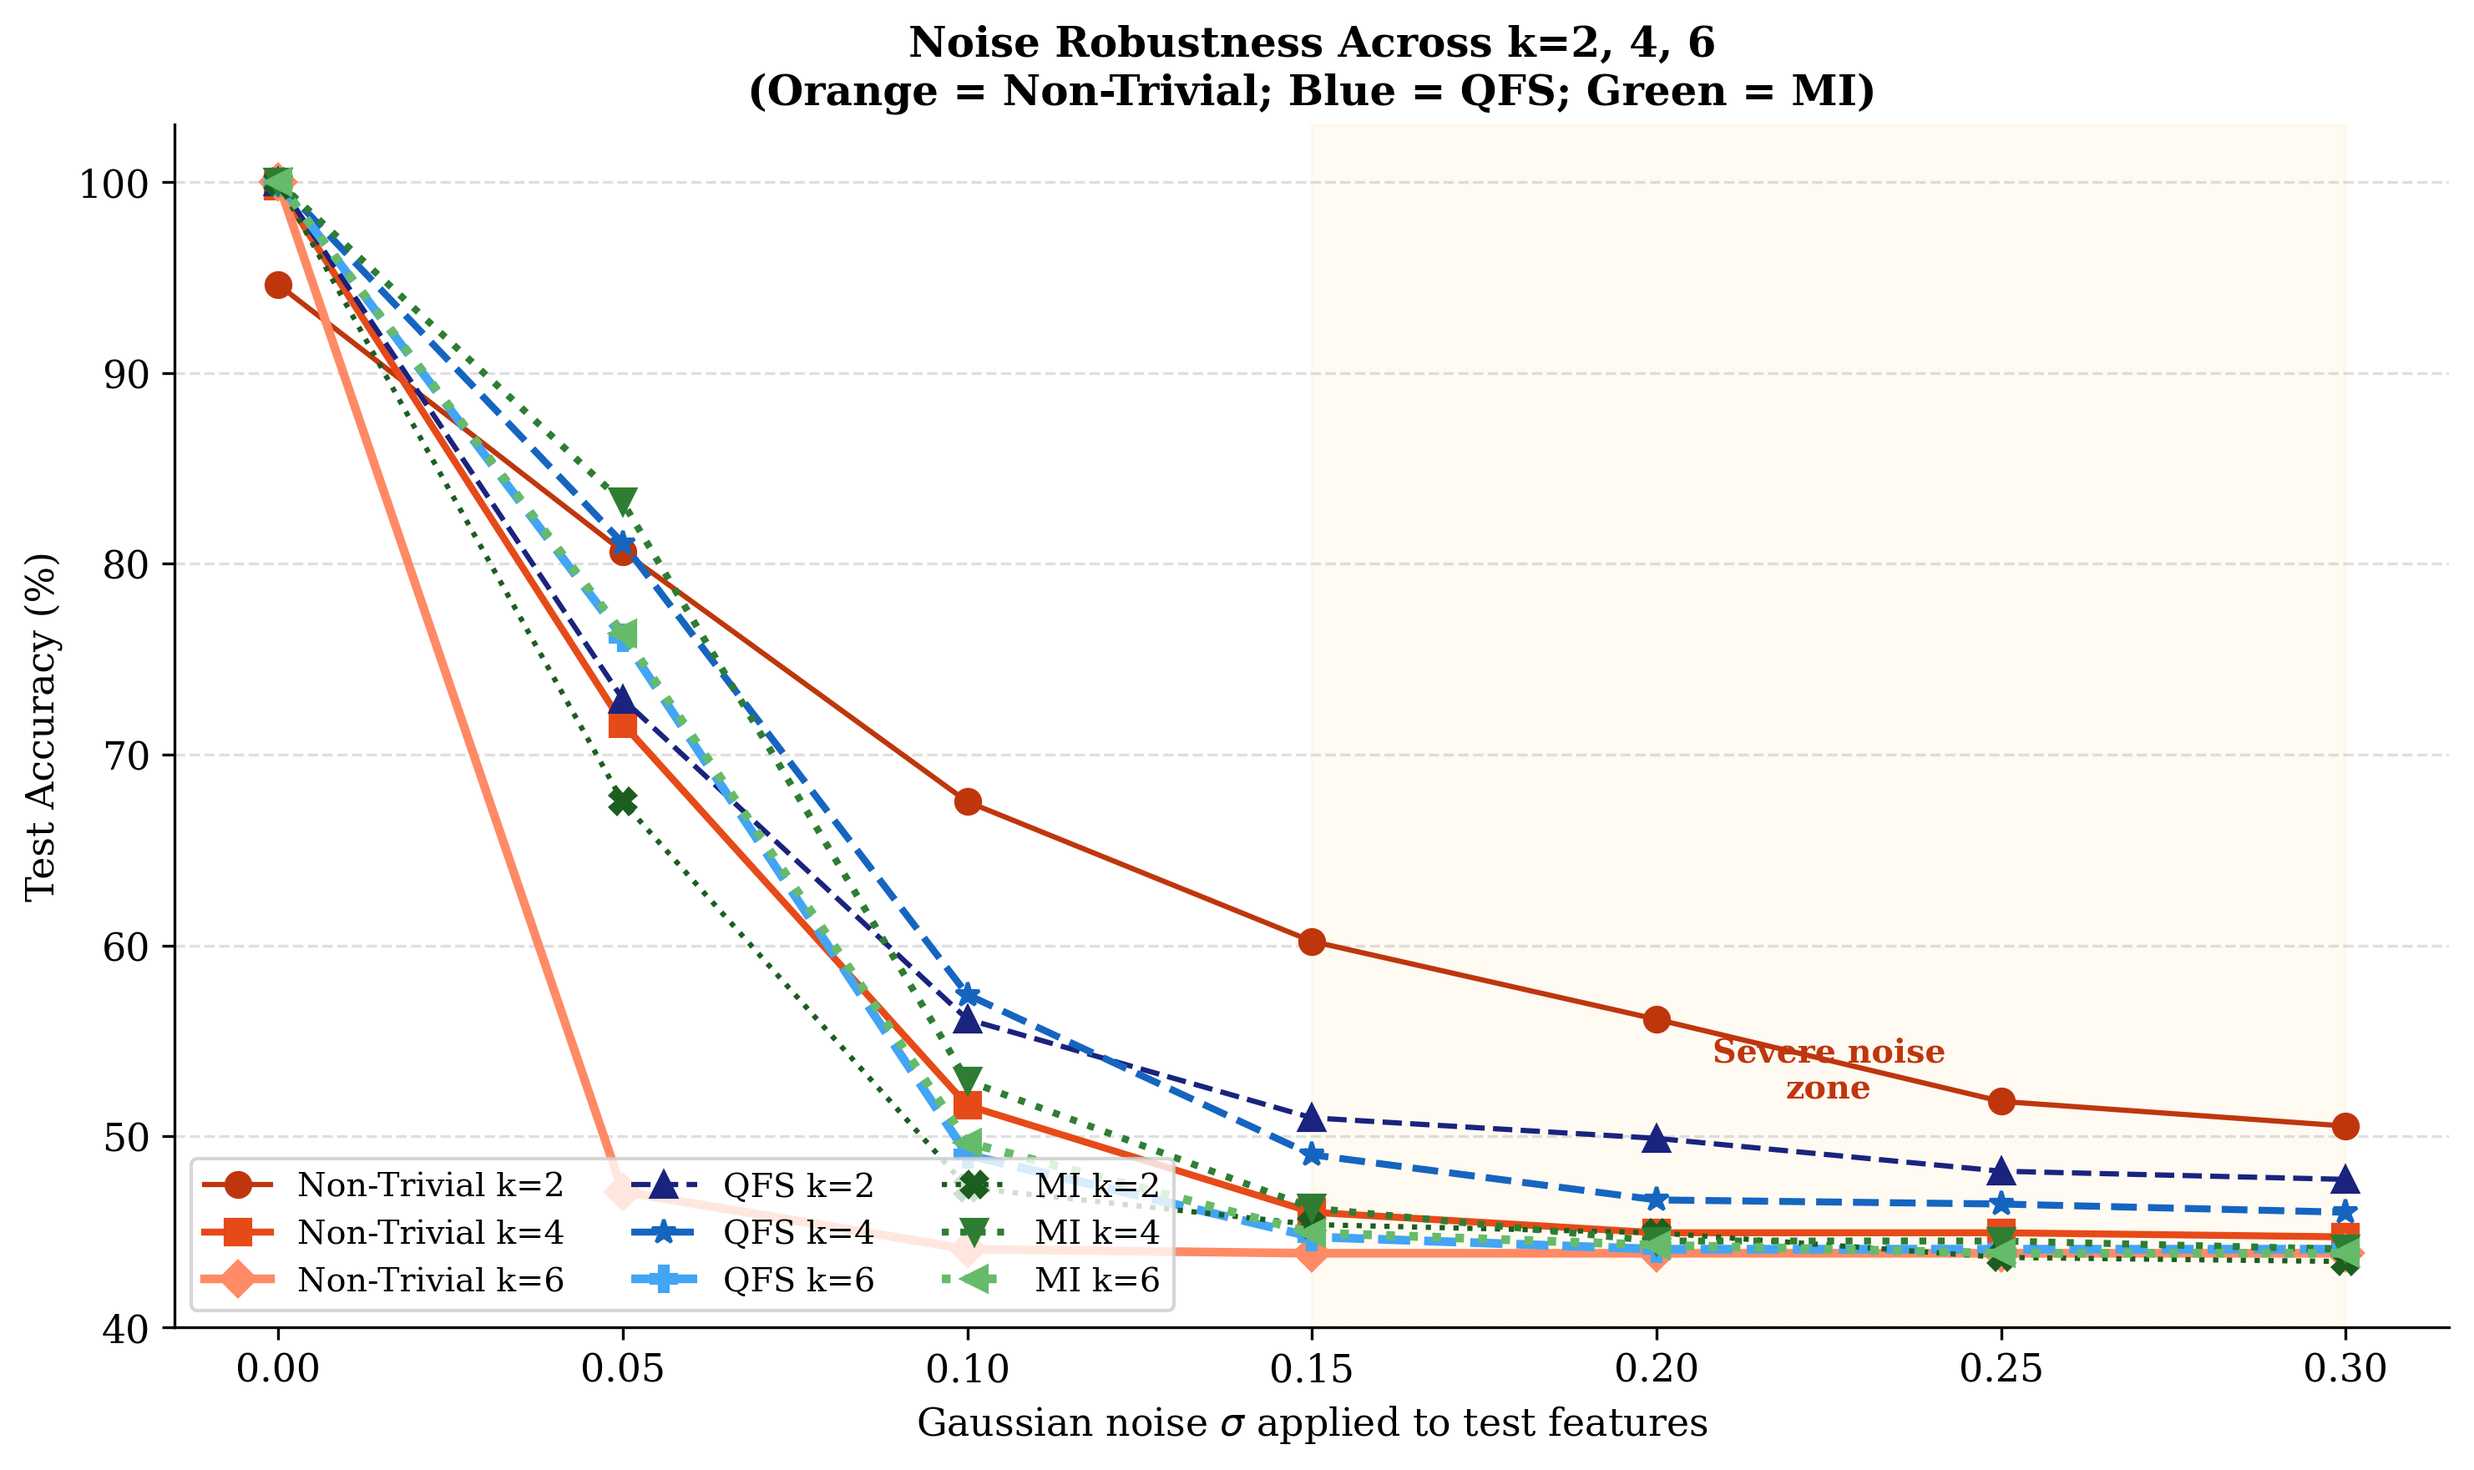
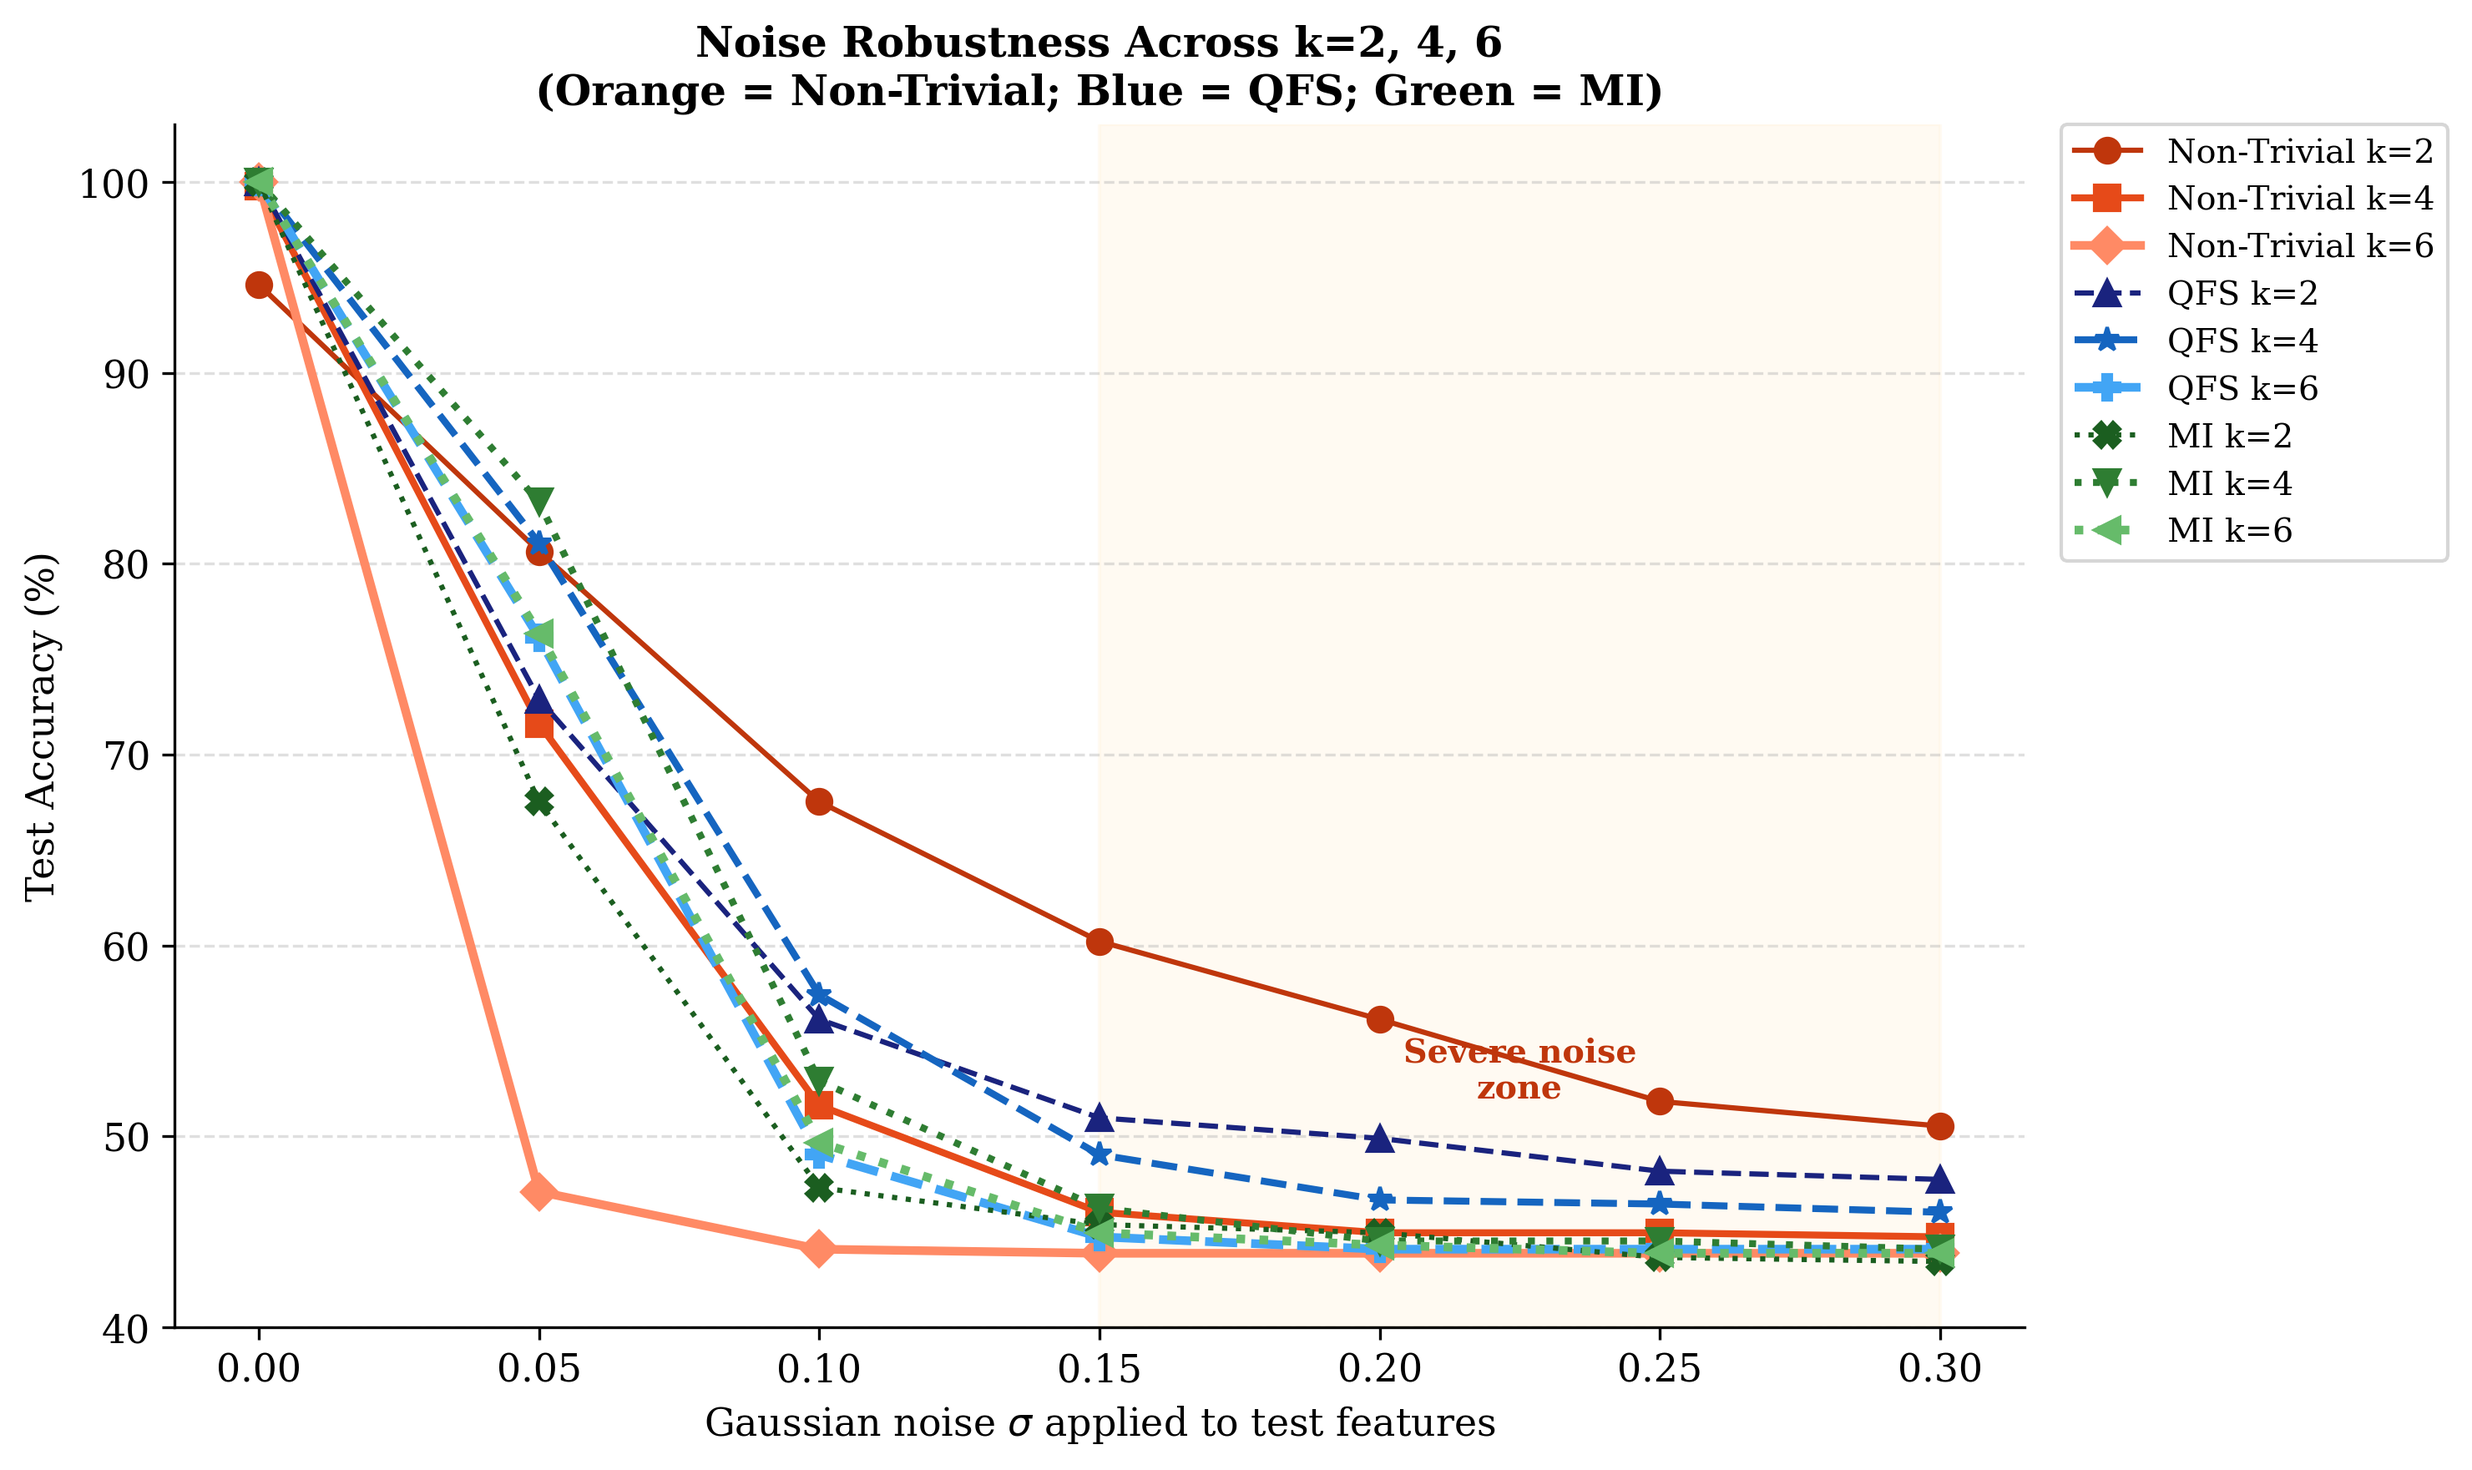
fix(results): fix legend overlap in honest_02_noise_curve.png
Moved the large 9-item legend completely outside the plot bounding box
(to the top right) so it no longer obscures the accuracy degradation curves.

diff --git a/scripts/honest_k_evaluation.py b/scripts/honest_k_evaluation.py
@@ -295,7 +295,10 @@ def plot2_noise(res):
                  "(Orange = Non-Trivial; Blue = QFS; Green = MI)",
                  fontweight="bold")
     ax.set_ylim(40, 103)
-    ax.legend(ncol=3, frameon=True, loc="lower left")
+    
+    # Legend moved outside the plot
+    ax.legend(bbox_to_anchor=(1.02, 1), loc="upper left", borderaxespad=0, frameon=True)
+    
     ax.grid(axis="y", ls="--", alpha=0.4); SPINE_OFF(ax)
     plt.tight_layout()
     path = os.path.join(PLOTS_DIR, "honest_02_noise_curve.png")
